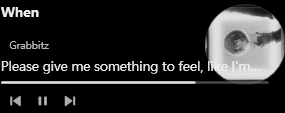
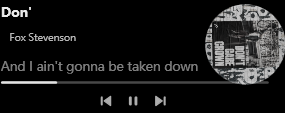
feat(card): remove the cover glow
The halo around the artwork had a radius larger than the disc, so on any template
where the lyric box reaches near the cover it painted over the text. It is gone:
the effect is no longer created, the scene reports Halo=false, the look-page toggle
is removed and the default is off (the key still parses so old configs load).

diff --git a/src/CardWindow.cs b/src/CardWindow.cs
@@ -521,7 +521,7 @@ namespace Amc
             sc.Playing = _playingShown;
             sc.Artwork = _artEllipse == null ? null : _artEllipse.Fill;
             sc.Spin = _artRotate == null ? 0 : _artRotate.Angle;
-            sc.Halo = _cfg.ArtShadow;
+            sc.Halo = false;   // the cover glow was removed
             sc.TitleSize = _baseTitleSize * _cfg.TitleScale;
             sc.ArtistSize = _baseArtistSize * _cfg.ArtistScale;
             sc.LyricSize = _baseLyricSize * _cfg.LyricScale;
@@ -950,7 +950,7 @@ namespace Amc
                 // halo goes on the static host, not on _artEllipse: the ellipse carries the
                 // spin transform, so an effect there would rotate the shadow with the cover
                 _artEllipse.Effect = null;
-                _artHost.Effect = _cfg.ArtShadow ? ArtHalo() : null;
+                _artHost.Effect = null;   // the glow is gone: it bled over the neighbouring text
 
                 // Only the cover keeps a shadow by default (see ArtHalo). TextShadow is the
                 // opt-in exception for light wallpapers, where white text without it vanishes.
@@ -966,7 +966,7 @@ namespace Amc
                 _card.BorderBrush = White(0.10);
                 _shadowHost.Effect = null;
                 _artEllipse.Effect = null;
-                _artHost.Effect = _cfg.ArtShadow ? ArtHalo() : null;
+                _artHost.Effect = null;   // the glow is gone: it bled over the neighbouring text
                 _card.Background = _hasArtBg
                     ? (Brush)new LinearGradientBrush(_artBg, Color.FromArgb(238, 12, 12, 15), 45)
                     : new SolidColorBrush(Color.FromArgb(238, 18, 18, 21));

diff --git a/src/Config.cs b/src/Config.cs
@@ -54,7 +54,7 @@ namespace Amc
         public double ArtBlackAlpha = 1.0;
         public double ArtHiCut = 0.06;
         public bool ArtSpin = true;
-        public bool ArtShadow = true;
+        public bool ArtShadow = false;   // removed: kept only so old configs still parse
         /// <summary>Soft halo behind the text. Off by default (the card looks clean on dark
         /// wallpapers); turn it on when the desktop is light and white text disappears.</summary>
         public bool TextShadow;
@@ -116,7 +116,7 @@ namespace Amc
             LyricOffset = 0.0;
             ClearBg = true;
             ArtSpin = true;
-            ArtShadow = true;
+            ArtShadow = false;
             TextShadow = false;
             ControlsColor = "";
             ArtSat = 0.1;

diff --git a/src/MainWindow.cs b/src/MainWindow.cs
@@ -1111,8 +1111,7 @@ namespace Amc
             { _cfg.ArtSat = v; _card.RefreshArt(); _cfg.Save(); })));
             box.Children.Add(Row(Strings.T("lbl.artHiCut"), Stepper(_cfg.ArtHiCut, 0, 0.6, 0.02, "0.00", delegate(double v)
             { _cfg.ArtHiCut = v; _card.RefreshArt(); _cfg.Save(); })));
-            box.Children.Add(Row(Strings.T("lbl.artShadow"), Toggle(_cfg.ArtShadow, delegate(bool v)
-            { _cfg.ArtShadow = v; _card.ApplyLook(); _cfg.Save(); })));
+            // the cover glow was removed: the halo bled over the title and lyrics
 
             // ---- card -------------------------------------------------------
             box.Children.Add(Section(Strings.T("sec.card")));
